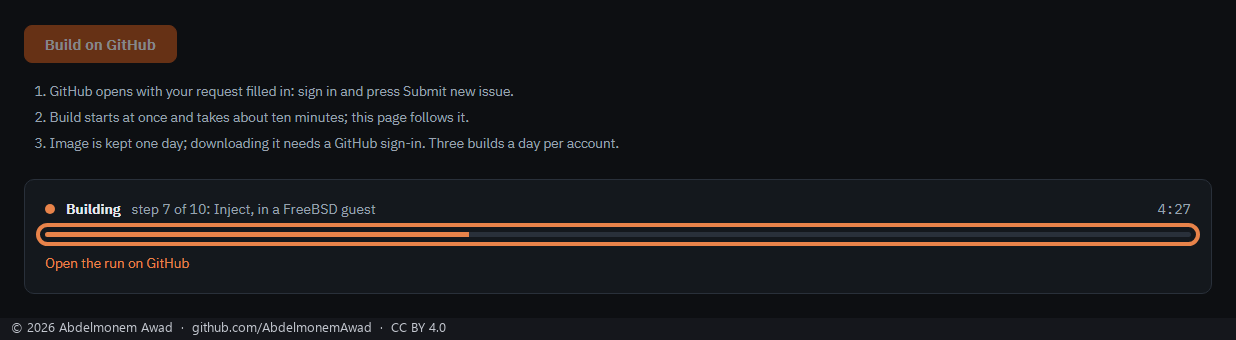
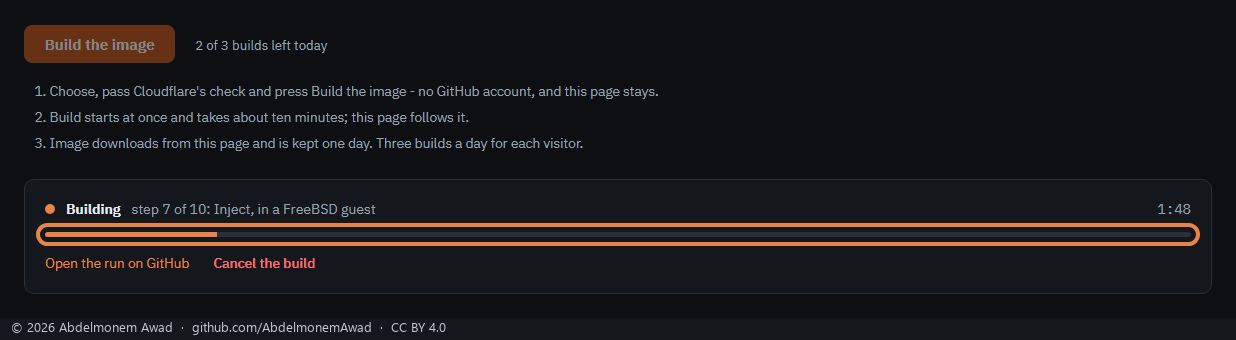
Guide: the build page's pictures as it is now, from a build started on the live page
The form, a build on its way and a build done, light and dark, English and Arabic, taken on
npuforge.org while a build the owner started from the page ran (xgs-image-builder run 41256331239):
the button Build the image, the builds left today, the cancel button, the image from the site.
Cloudflare's check is in none of them - its script was refused while they were taken. The
descriptions follow; the-pages.md's form picture shows a build under it.

diff --git a/docs/images/README.md b/docs/images/README.md
@@ -66,8 +66,8 @@ in [docs/guide/the-pages.md](../guide/the-pages.md), English first and Arabic un
 <tr><td valign="top"><sub>XGS: Fallback Crypto on the first XGS 3300: the Ryzen V1780B, aesni as the provider, two IPsec SAs in the kernel with AES-GCM, aesni only at the next boot, and the processor's features</sub></td><td valign="top"><a href="screens/en/18-fallback-crypto.png"><img src="screens/en/18-fallback-crypto.png" alt="XGS: Fallback Crypto on the first XGS 3300: the Ryzen V1780B, aesni as the provider, two IPsec SAs in the kernel with AES-GCM, aesni only at the next boot, and the processor's features - English" width="100%"></a></td><td valign="top"><sub>English only</sub></td></tr>
 <tr><td valign="top"><sub>The build page on npuforge.org: a ready image to download, or one built for you</sub></td><td valign="top"><a href="screens/en/20-builder-page-dark.png"><img src="screens/en/20-builder-page-dark.png" alt="The build page on npuforge.org: a ready image to download, or one built for you - English" width="100%"></a></td><td valign="top"><sub>English only</sub></td></tr>
 <tr><td valign="top"><sub>The build page on npuforge.org: a ready image to download, or one built for you</sub></td><td valign="top"><a href="screens/en/20-builder-page.png"><img src="screens/en/20-builder-page.png" alt="The build page on npuforge.org: a ready image to download, or one built for you - English" width="100%"></a></td><td valign="top"><sub>English only</sub></td></tr>
-<tr><td valign="top"><sub>The build page's form: OPNsense release, console speed, driver release and front panel</sub></td><td valign="top"><a href="screens/en/21-builder-form-dark.png"><img src="screens/en/21-builder-form-dark.png" alt="The build page's form: OPNsense release, console speed, driver release and front panel - English" width="100%"></a></td><td valign="top"><sub>English only</sub></td></tr>
-<tr><td valign="top"><sub>The build page's form: OPNsense release, console speed, driver release and front panel</sub></td><td valign="top"><a href="screens/en/21-builder-form.png"><img src="screens/en/21-builder-form.png" alt="The build page's form: OPNsense release, console speed, driver release and front panel - English" width="100%"></a></td><td valign="top"><sub>English only</sub></td></tr>
+<tr><td valign="top"><sub>The build page's form: OPNsense release, console speed, driver release and front panel, a build on its way under it</sub></td><td valign="top"><a href="screens/en/21-builder-form-dark.png"><img src="screens/en/21-builder-form-dark.png" alt="The build page's form: OPNsense release, console speed, driver release and front panel, a build on its way under it - English" width="100%"></a></td><td valign="top"><sub>English only</sub></td></tr>
+<tr><td valign="top"><sub>The build page's form: OPNsense release, console speed, driver release and front panel, a build on its way under it</sub></td><td valign="top"><a href="screens/en/21-builder-form.png"><img src="screens/en/21-builder-form.png" alt="The build page's form: OPNsense release, console speed, driver release and front panel, a build on its way under it - English" width="100%"></a></td><td valign="top"><sub>English only</sub></td></tr>
 </table>
 
 ## Hardware

diff --git a/website/i18n/ar/guide/step-by-step.md b/website/i18n/ar/guide/step-by-step.md
@@ -99,8 +99,8 @@ GitHub.
 | إصدار التعريف | **latest**، أحدث إصدار |
 | اللوحة الأمامية | **نعم** للطراز الرفّي، و**لا** للمكتبي |
 
-![خيارات صفحة البناء: OPNsense 26.7، وسرعة الطرفية 115200، والتعريف latest، واللوحة الأمامية نعم؛ والسرعة وزر ابنِ على GitHub محاطان بإطار](/docs/images/guide/ar/01-builder-choices.png#gh-light-mode-only)
-![خيارات صفحة البناء: OPNsense 26.7، وسرعة الطرفية 115200، والتعريف latest، واللوحة الأمامية نعم؛ والسرعة وزر ابنِ على GitHub محاطان بإطار](/docs/images/guide/ar/01-builder-choices-dark.png#gh-dark-mode-only)
+![خيارات صفحة البناء: OPNsense 26.7، وسرعة الطرفية 115200، والتعريف latest، واللوحة الأمامية نعم؛ والسرعة محاطة بإطار](/docs/images/guide/ar/01-builder-choices.png#gh-light-mode-only)
+![خيارات صفحة البناء: OPNsense 26.7، وسرعة الطرفية 115200، والتعريف latest، واللوحة الأمامية نعم؛ والسرعة محاطة بإطار](/docs/images/guide/ar/01-builder-choices-dark.png#gh-dark-mode-only)
 
 اجتز
 تحقق Cloudflare فوق الزر، واضغط **ابنِ الصورة**. تبدأ الصفحة البناء بنفسها وتبقى في مكانها، وتذكر
@@ -109,8 +109,8 @@ GitHub.
 تتابع الصفحة البناء حتى نهايته بشريط يتقدّم مع خطواته الفعلية. يستغرق البناء نحو عشر دقائق. وأثناءه
 يوقفه زر **ألغِ البناء** إن غيّرت رأيك، والبناء الملغى يُحتسب من الثلاثة.
 
-![بناء في طريقه: الخطوة 7 من 10 داخل نظام FreeBSD، والشريط محاط بإطار](/docs/images/guide/ar/02-builder-progress.png#gh-light-mode-only)
-![بناء في طريقه: الخطوة 7 من 10 داخل نظام FreeBSD، والشريط محاط بإطار](/docs/images/guide/ar/02-builder-progress-dark.png#gh-dark-mode-only)
+![بناء بدأ من الصفحة: زر ابنِ الصورة ينتظر، وبقي لك اليوم 2 من 3، والخطوة 7 من 10 داخل نظام FreeBSD والشريط محاط بإطار، وزر ألغِ البناء](/docs/images/guide/ar/02-builder-progress.png#gh-light-mode-only)
+![بناء بدأ من الصفحة: زر ابنِ الصورة ينتظر، وبقي لك اليوم 2 من 3، والخطوة 7 من 10 داخل نظام FreeBSD والشريط محاط بإطار، وزر ألغِ البناء](/docs/images/guide/ar/02-builder-progress-dark.png#gh-dark-mode-only)
 
 ## 3. تنزيل الصورة
 

diff --git a/docs/guide/step-by-step.md b/docs/guide/step-by-step.md
@@ -92,8 +92,8 @@ Choose **Build your own**. Its choices are already the right ones for an XGS:
 | Driver release | **latest**, the newest release |
 | Front panel | **Yes** for a rack model, **No** for a desktop one |
 
-![The build page's choices: OPNsense 26.7, console speed 115200, driver latest, front panel Yes; the speed and Build on GitHub framed](../images/guide/01-builder-choices.png#gh-light-mode-only)
-![The build page's choices: OPNsense 26.7, console speed 115200, driver latest, front panel Yes; the speed and Build on GitHub framed](../images/guide/01-builder-choices-dark.png#gh-dark-mode-only)
+![The build page's choices: OPNsense 26.7, console speed 115200, driver latest, front panel Yes; the speed framed](../images/guide/01-builder-choices.png#gh-light-mode-only)
+![The build page's choices: OPNsense 26.7, console speed 115200, driver latest, front panel Yes; the speed framed](../images/guide/01-builder-choices-dark.png#gh-dark-mode-only)
 
 Pass Cloudflare's check above the button and press **Build the
 image**. The page starts the build itself and stays where it is; beside the button it says how many
@@ -103,8 +103,8 @@ The page follows the build to the end, with a bar that moves with the build's ow
 about ten minutes. While it runs, **Cancel the build** stops it, if you change your mind; a cancelled
 build still counts as one of the three.
 
-![A build on its way: step 7 of 10, inside a FreeBSD guest, its bar framed](../images/guide/02-builder-progress.png#gh-light-mode-only)
-![A build on its way: step 7 of 10, inside a FreeBSD guest, its bar framed](../images/guide/02-builder-progress-dark.png#gh-dark-mode-only)
+![A build started from the page: Build the image waiting, 2 of 3 builds left today, step 7 of 10 inside a FreeBSD guest with its bar framed, and Cancel the build](../images/guide/02-builder-progress.png#gh-light-mode-only)
+![A build started from the page: Build the image waiting, 2 of 3 builds left today, step 7 of 10 inside a FreeBSD guest with its bar framed, and Cancel the build](../images/guide/02-builder-progress-dark.png#gh-dark-mode-only)
 
 ## 3. Download the image
 

diff --git a/docs/guide/the-pages.md b/docs/guide/the-pages.md
@@ -584,8 +584,8 @@ Under VPN: IPsec: Fallback Crypto without os-xgs-npu.
 ![The build page on npuforge.org: a ready image to download, or one built for you](../images/screens/en/20-builder-page.png#gh-light-mode-only)
 ![The build page on npuforge.org: a ready image to download, or one built for you](../images/screens/en/20-builder-page-dark.png#gh-dark-mode-only)
 
-![The build page's form: OPNsense release, console speed, driver release and front panel](../images/screens/en/21-builder-form.png#gh-light-mode-only)
-![The build page's form: OPNsense release, console speed, driver release and front panel](../images/screens/en/21-builder-form-dark.png#gh-dark-mode-only)
+![The build page's form: OPNsense release, console speed, driver release and front panel, a build on its way under it](../images/screens/en/21-builder-form.png#gh-light-mode-only)
+![The build page's form: OPNsense release, console speed, driver release and front panel, a build on its way under it](../images/screens/en/21-builder-form-dark.png#gh-dark-mode-only)
 
 Where an install starts:
 [npuforge.org's build page](https://npuforge.org/build/),
